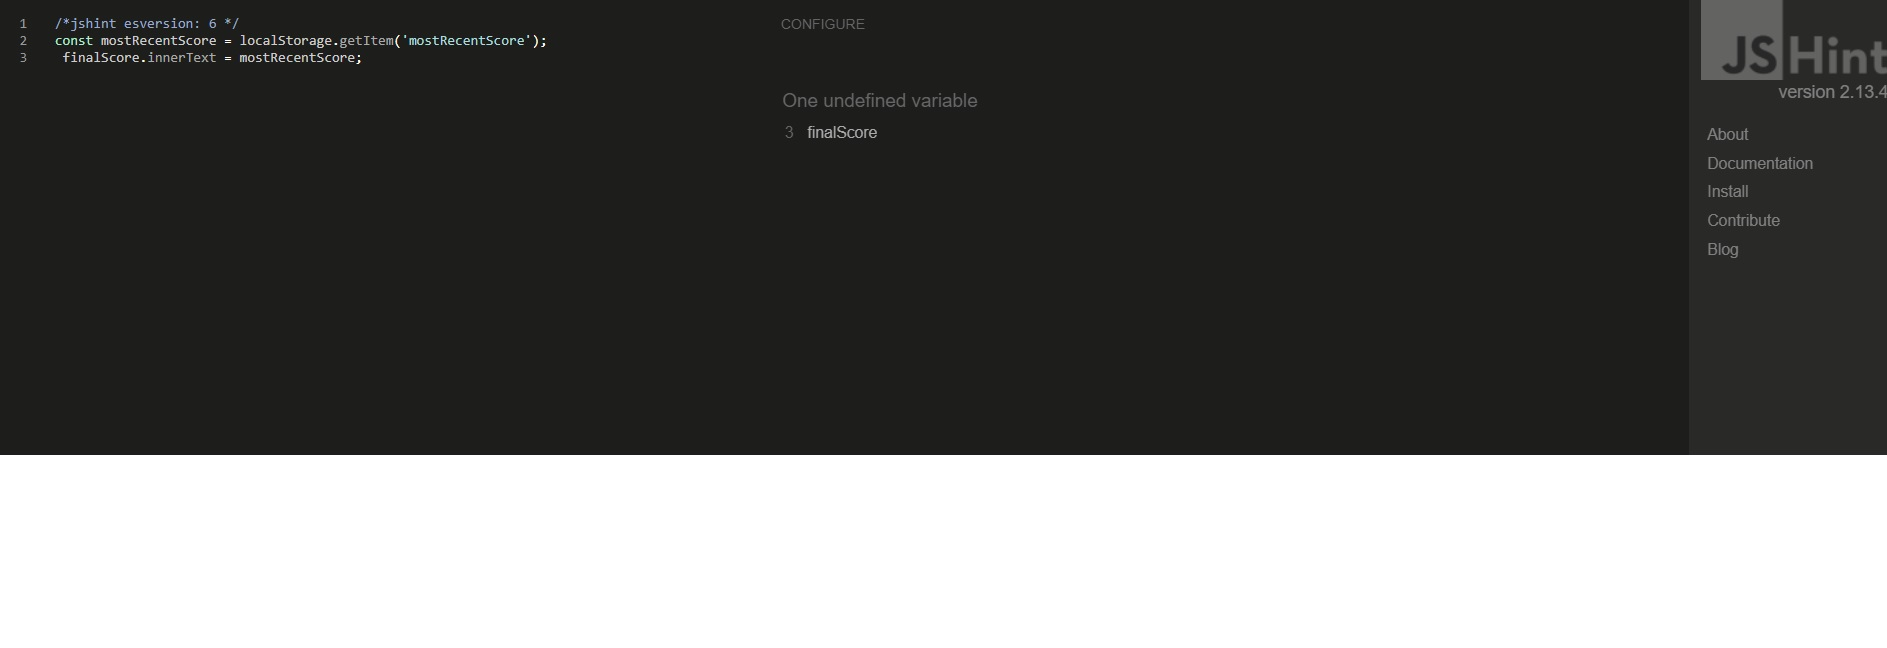
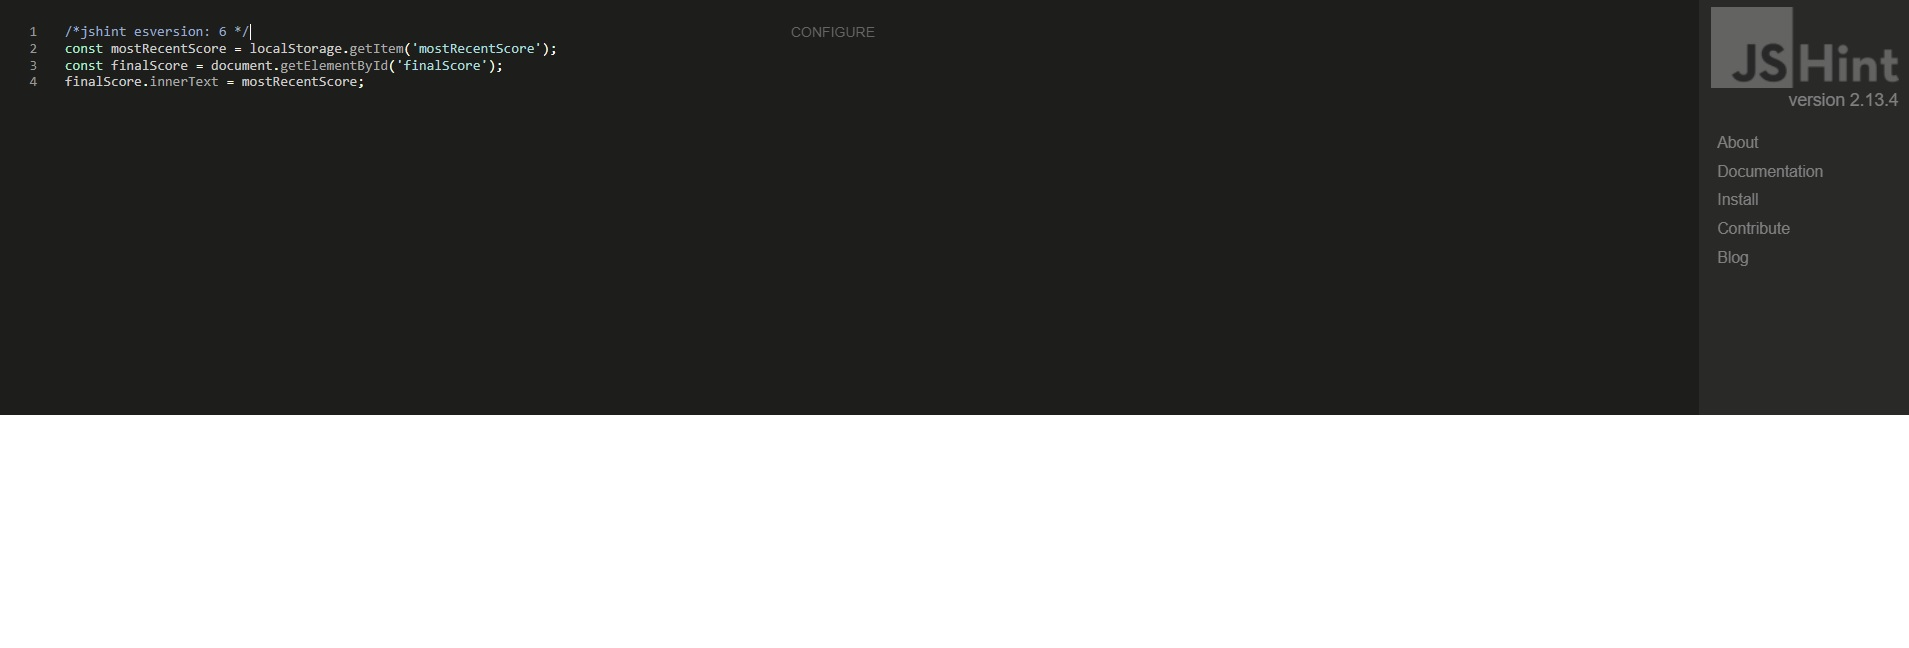
Adjust home page

diff --git a/index.html b/index.html
@@ -30,27 +30,40 @@
     </header>
     
     <!--Main html for game-->
-    <div class="container w3-center w3-animate-bottom">
-        <h1>Try Our Demo</h1>
-        <div class="progressBar">
-            <p>progressBar</p>
-        </div>
+    <div class="container w3-center w3-animate-opacity">
+        <p id="example" style="text-align:center;">Example</p>
+        <div id="game">
+            <div id="hud">
+                <div class="hud-item">
+                </div>
+            </div>
 
-        <div id="score">
-            <h2>Score</h2>
-            <p id="scoreText">0</p>
-        </div>
+            <div id="questions">
+            <h1 id="question">What is the answer to this question?</h1>
+            </div>
 
-        <div id="questions">
-            <h1 id="question">What is the answer?</h1>
-        </div>
+            <div class="answers-container">
+                <div class="answers btn">
+                    <p class="ans-btn" data-number="1">Choice</p>
+                </div>
+            </div>
 
-        <div class="answers-container">
-            <div class="answers btn">
-                <p class="ans-btn" data-number="1">Answer A</p>
-                <p class="ans-btn" data-number="2">Answer B</p>
-                <p class="ans-btn" data-number="3">Answer C</p>
-                <p class="ans-btn" data-number="4">Answer D</p>
+            <div class="answers-container">
+                <div class="answers btn">
+                    <p class="ans-btn" data-number="2">Choice 2</p>
+                </div>
+            </div>
+
+            <div class="answers-container">
+                <div class="answers btn">
+                    <p class="ans-btn" data-number="3">Choice 3</p>
+                </div>
+            </div>
+
+            <div class="answers-container">
+                <div class="answers btn">
+                    <p class="ans-btn" data-number="4">Choice 4</p>
+                </div>
             </div>
         </div>
     </div>
@@ -71,6 +84,5 @@
 
     <!--Script sources for project-->
     <script src="https://kit.fontawesome.com/d15acb58b5.js" crossorigin="anonymous"></script>
-    <script src="assets/javascript/script.js"></script>
 </body>
 </html>

diff --git a/assets/css/style.css b/assets/css/style.css
@@ -42,6 +42,10 @@ body {
     border-spacing: 5px;
 }
 
+#example {
+    font-size: 40px;
+}
+
 #login-link {
     color: #fff;
     float: right;
@@ -349,7 +353,7 @@ img {
     height: 100%;
     background-color: #fff;
     width: 70%;
-    margin: 40% auto;
+    margin: 50% auto;
     box-shadow: 5px 5px 5px 5px #4b4b4b;
     padding-bottom: 5%;
     border-radius: 10px;

diff --git a/assets/javascript/summary.js b/assets/javascript/summary.js
@@ -1,2 +1,3 @@
 const mostRecentScore = localStorage.getItem('mostRecentScore');
+const finalScore = document.getElementById('finalScore');
 finalScore.innerText = mostRecentScore;

diff --git a/README.md b/README.md
@@ -507,11 +507,12 @@ The website was tested on the browsers listed below:
 
 ## Bugs
 
+### Unfixed Bugs
 
-| **Bugs** | **Fixes** |
-| -------- | --------- |
-| | |
-
+<ul>
+<li>Map logs an error to the console.</li>
+<li>Summary page logs an error to the console but works as it should.</li>
+</ul>
 
 ## Deployment
 
